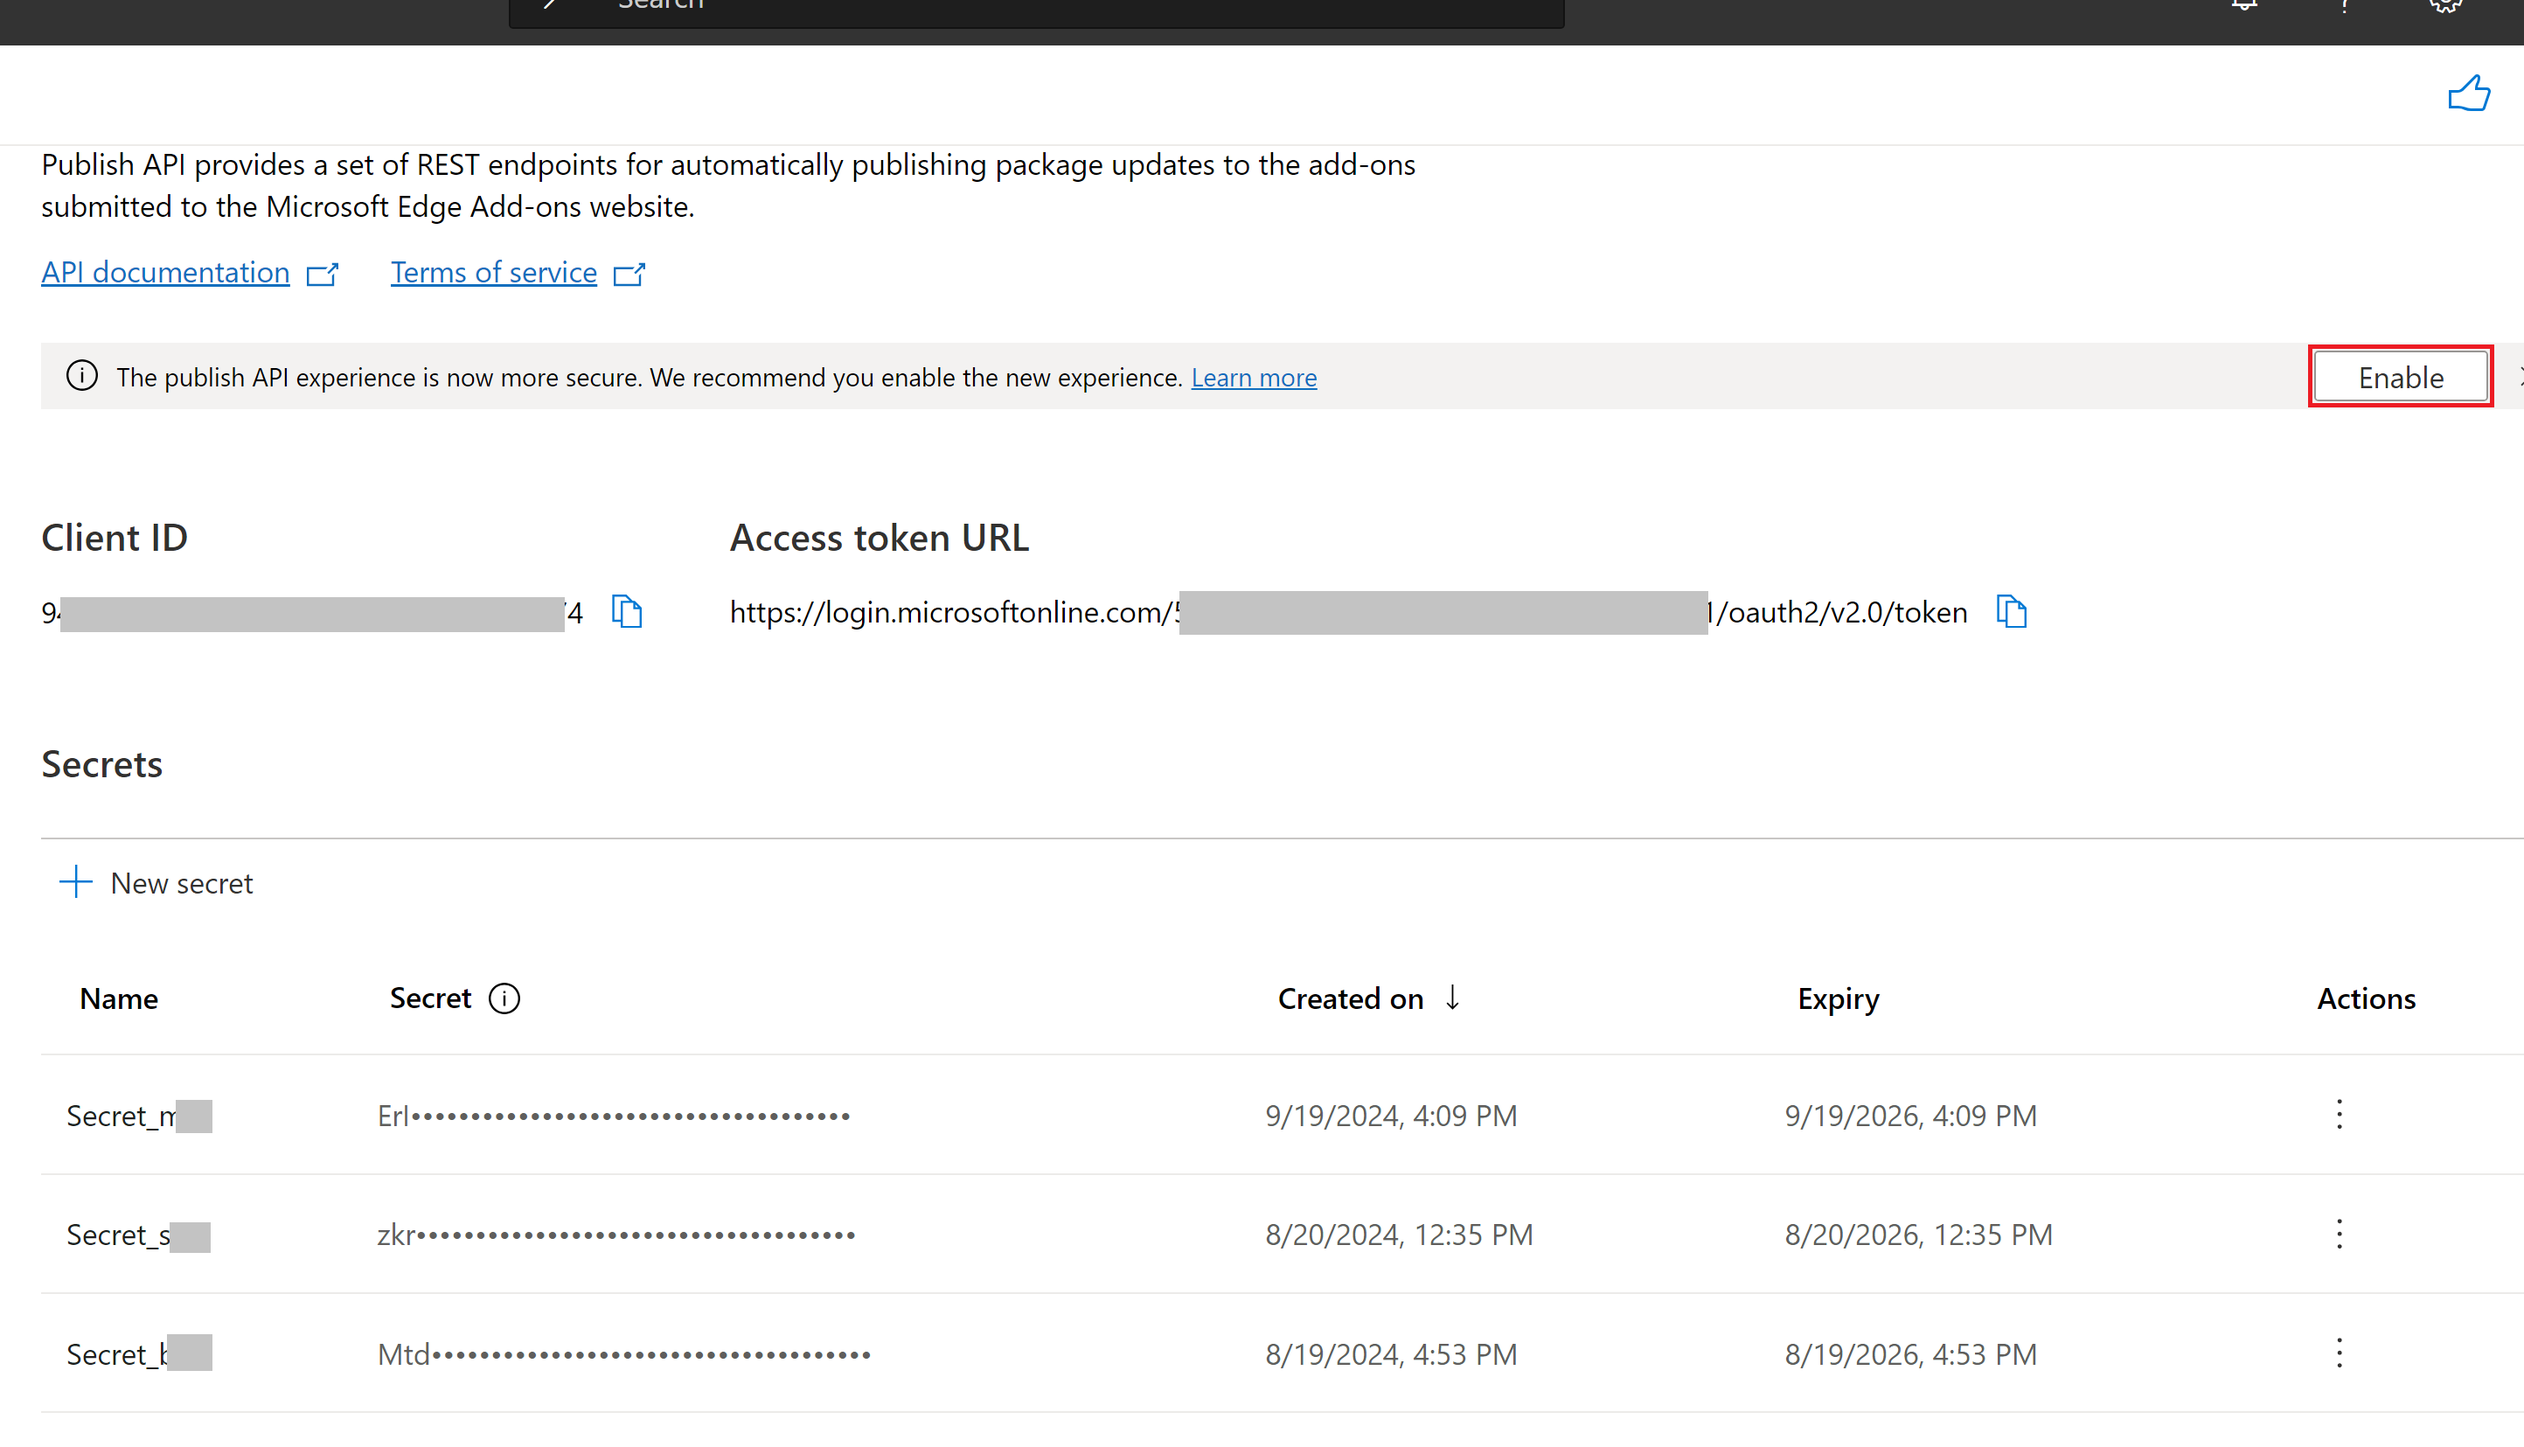
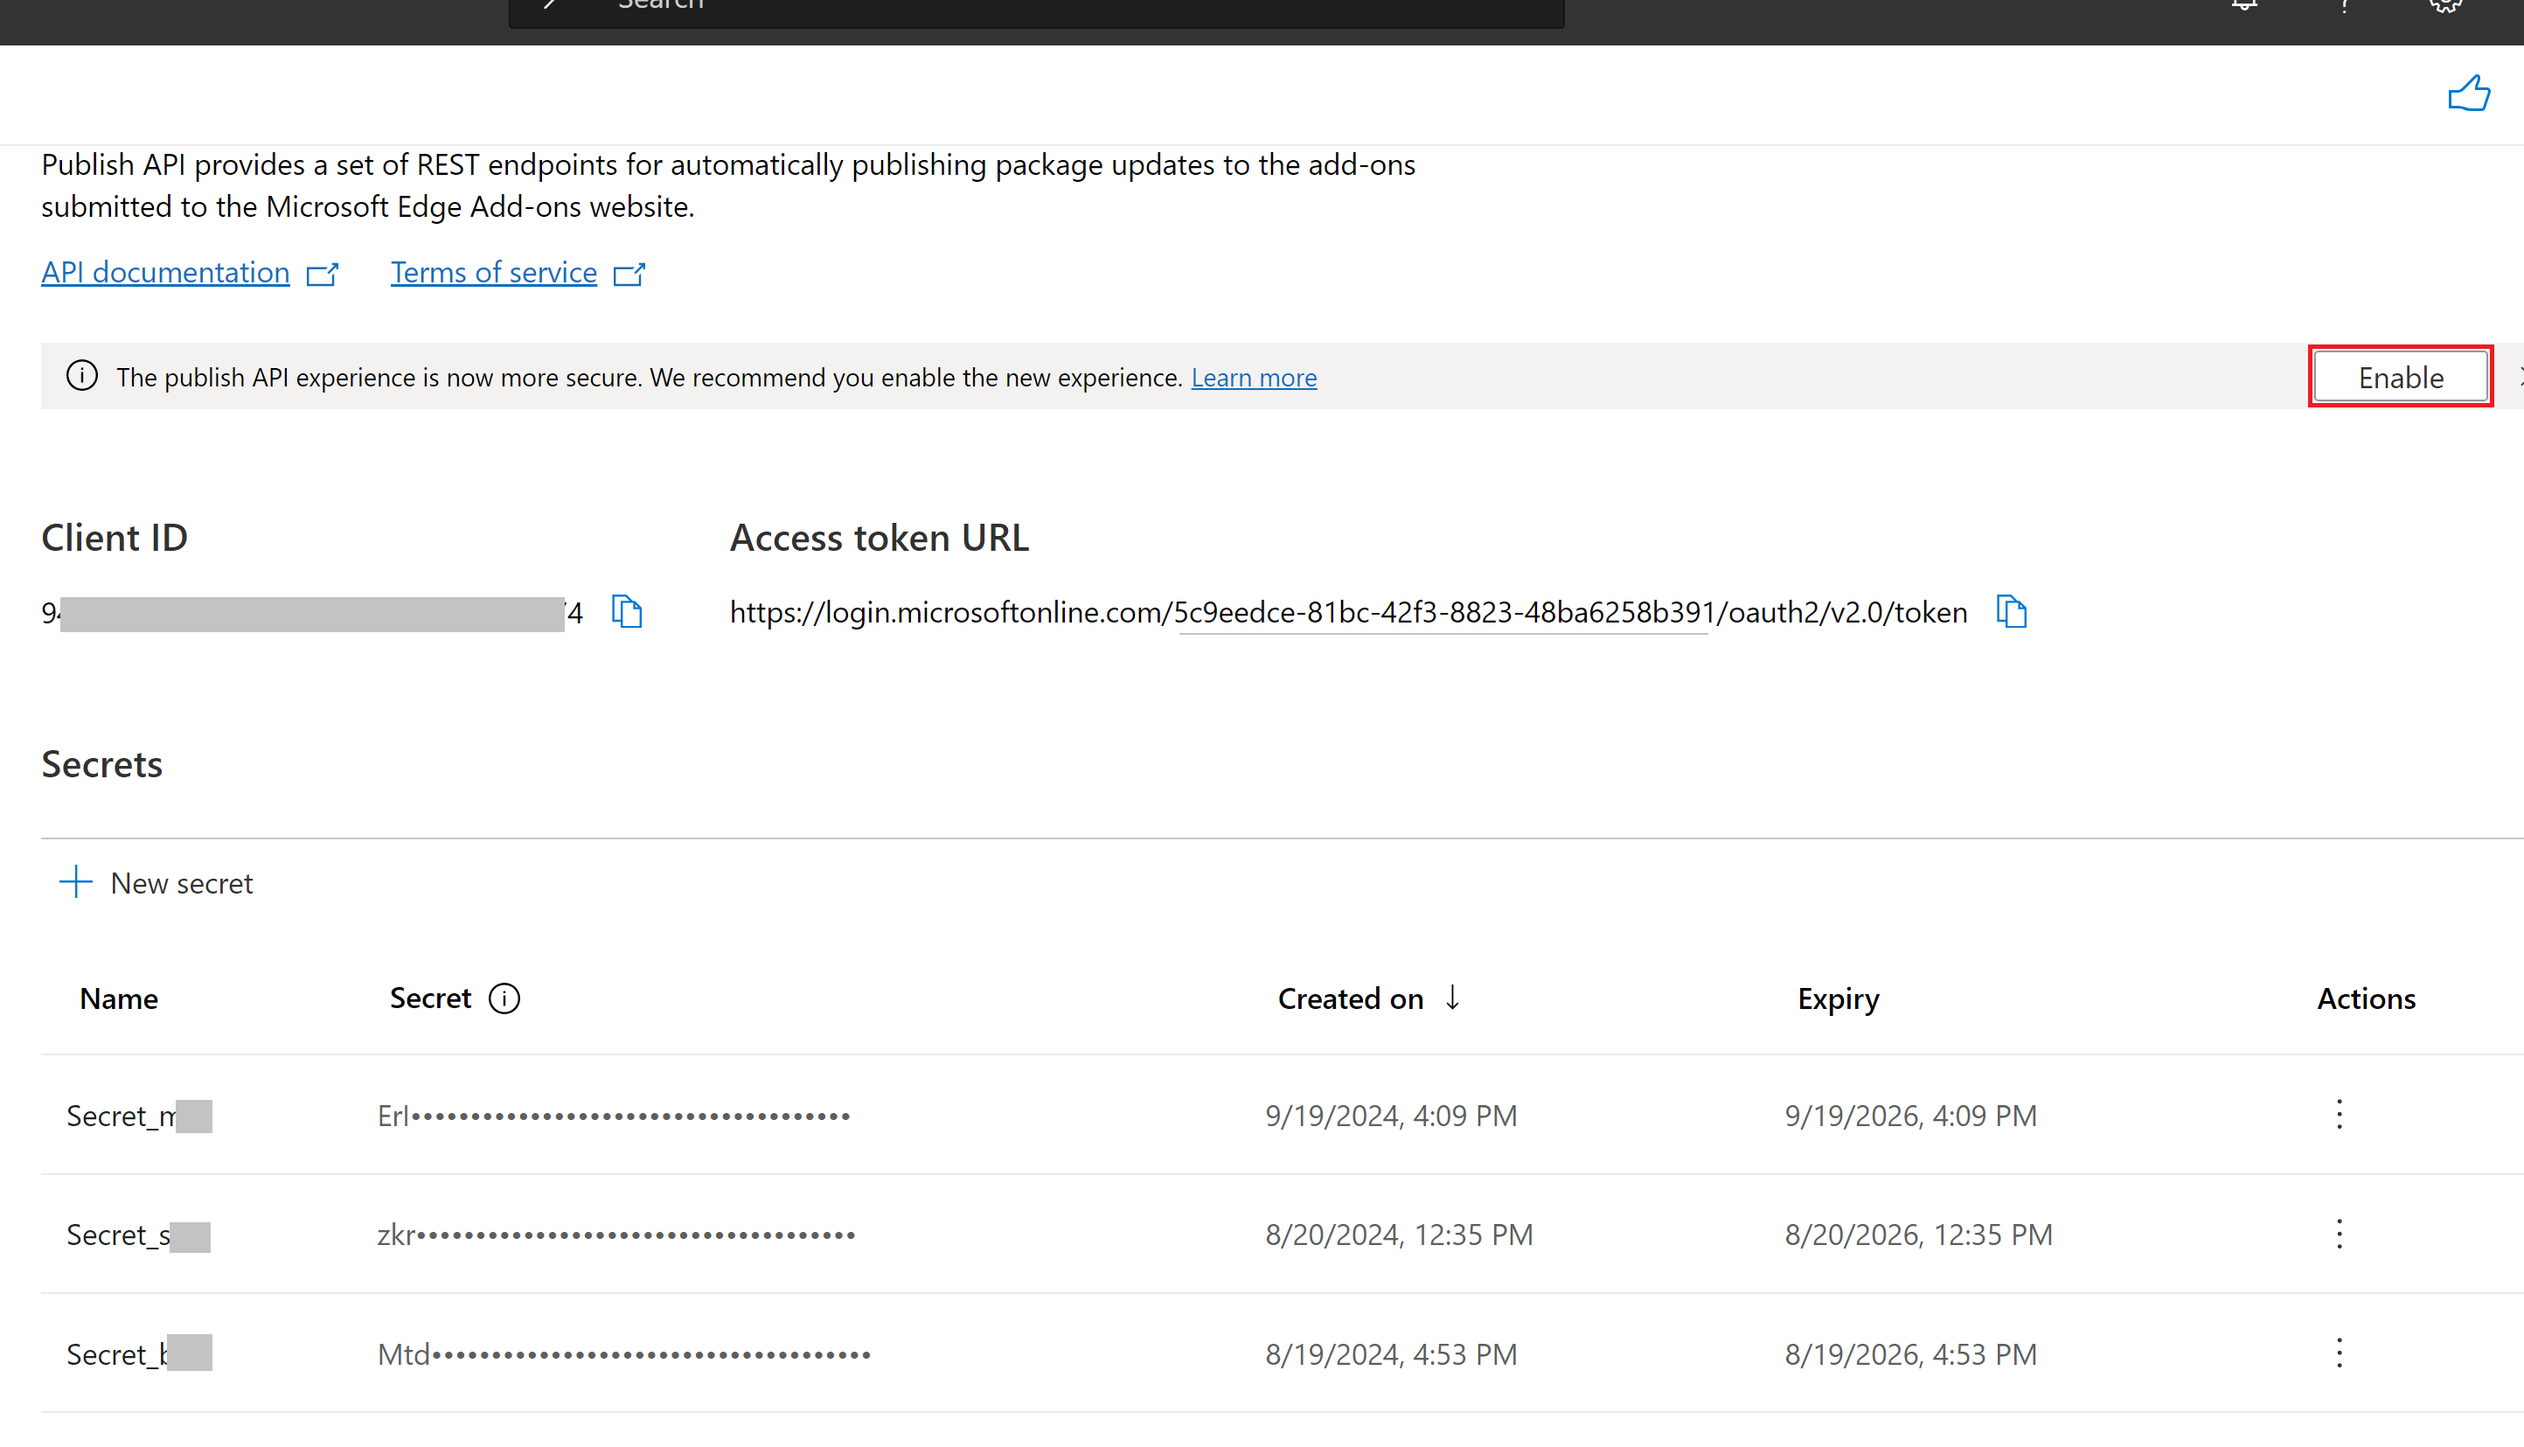
token vs url

Changed region(s): [[0.4676, 0.4006, 0.6858, 0.4622]]

diff --git a/microsoft-edge/extensions-chromium/publish/api/using-addons-api.md b/microsoft-edge/extensions-chromium/publish/api/using-addons-api.md
@@ -34,7 +34,7 @@ The REST endpoints use specific request headers for v1.1.
 
 ##### [v1](#tab/v1)
 
-v1 requires sending an Access Token URL.  The UI in Partner Center covers the access token.
+v1 requires sending an access token.<!-- todo: to an access token URL?  an access token that's provided by/at an access token URL? -->  The Partner Center UI shows the access token URL.<!-- todo: define/relate "access token URL" vs. "access token" -->
 
 v1 uses Secrets.  The UI in Partner Center covers Secrets.
 
@@ -52,7 +52,7 @@ To use v1.1 of the Update REST API:
 
 1. At your [Partner Center developer dashboard](https://partner.microsoft.com/dashboard/microsoftedge/public/login?ref=dd), opt-in to the API key management experience.Details are in [Enable the Update REST API at Partner Center](#enable-the-update-rest-api-at-partner-center), below.
 
-1. Write down the ClientID and API key.
+1. Write down the Client ID and the new API key.
 
 1. Update your authentication workflows, if needed.
 
@@ -66,13 +66,13 @@ To use v1 of the Update REST API:
 
 1. At your [Partner Center developer dashboard](https://partner.microsoft.com/dashboard/microsoftedge/public/login?ref=dd), get an access token.  Details are in [Enable the Update REST API at Partner Center](#enable-the-update-rest-api-at-partner-center), below.
 
-1. Generate your ClientID and secrets.
+1. Generate your ClientID and secrets.  You can generate multiple client secrets for your Client ID.  For example, you can create multiple secrets for multiple projects.
 
 1. Update your authentication workflows, if needed.
 
 1. Re-configure any existing Continuous Integration (CI) or Continuous Deployment (CD) pipelines that might be impacted by the changes to the access token URL.
 
-1. Retrieve the access token.  Details are in [Retrieving the access token (v1 only)](#retrieving-the-access-token-v1-only), below.
+1. Retrieve the access token.  Details are in [Retrieve the access token (v1 only)](#retrieve-the-access-token-v1-only), below.
 
 1. When you use a REST endpoint, specify the access token in the request header.  Details are in [Using the API endpoints](#using-the-api-endpoints), below.
 
@@ -118,20 +118,15 @@ To use the Microsoft Edge Add-ons API, you first need to enable the API for your
    ![The 'Publish API' page at Partner Center after clicking 'Create API credentials', now showing Client ID and API key](./using-addons-api-images/partner-center-1-1-ui.png)
 
    The API credentials have now been created; you've enabled or renewed the API.  The following items are now displayed on the **Publish API** page:
-   * **Client ID**.
-   * **API Key**.
-      * **Expiry** date for the API key.
+   * Your **Client ID**.
+   * **API Keys**.
+      * The **Expiry** date for each API key.
 
 1. Write down the following:
    * The **Client ID**.
-   * The **API key**.
+   * The new **API key**.
 
-   You'll use the Client ID and API key values in request headers when using a REST endpoint:
-
-   ``REST
-   `Authorization: ApiKey <api key>`
-   `X-ClientID: <client ID>`
-   ```
+   You'll use the Client ID and API key in the request header when using a REST endpoint.
 
 ##### [v1](#tab/v1)
 
@@ -142,40 +137,34 @@ To use the Microsoft Edge Add-ons API, you first need to enable the API for your
 1. On the **Publish API** page, click the **Create API credentials** button.  This step may take a few minutes to finish.
 
    The API credentials have now been created; you've enabled or renewed the API.  The following items are now displayed on the **Publish API** page:
-   * **Client ID**
-   * **Client secret**
-   * **Expiry date**
-   * **Access token URL**
+   * Your **Client ID**.
+   * Your **Access token URL**.
+   * **Client secrets**.
+      * The **Expiry date** of each Secret.
 
    ![The 'Publish API' page at Partner Center after clicking 'Create API credentials', now showing Client ID, Client Secret, and Auth Token URL](./using-addons-api-images/create-api-credentials-button.png)
 
 1. Write down the following:
    * The **Client ID**.
-   * The **Client secret**.
    * The **Access token URL**.
+   * The new **Client secret**.
 
-   You'll use these values in the next step, to get an access token.
+   You'll use the Client ID, access token URL, and client secret to get an access token, per [Retrieve the access token](#retrieve-the-access-token), below .  You'll then use the access token in the request header when using a REST endpoint.
 
 > [!IMPORTANT]
 > Be sure to write down the client secret now, because it's only visible immediately after enabling or renewing the API (that is, after creating API credentials).  This particular secret isn't shown again.
 
-You can generate multiple client secrets for your client ID.  For example, you can create multiple secrets for multiple projects.
-
----
+You can generate multiple client secrets for your Client ID.  For example, you can create multiple secrets for multiple projects.
 
 
-<!-- ====================================================================== -->
-## Retrieving the access token (v1 only)
+<!-- ---------------------------------- -->
+#### Retrieve the access token
+<!-- todo: global: access token, or access token URL?  consistency pass, relate the two terms -->
 
+After you've acquired the necessary authorization for your application, get access tokens<!-- todo: plural or singular?  one token per endpoint? --> for APIs.  To get a token by using the client credentials grant, send a POST request to the Access token URL (the OAuth token).
 
-##### [v1.1](#tab/v1-1)
+The tenant information<!-- todo: define "tenant information", what relevance? --> is available in the Access token URL that you received in the previous step, [Enable the Update REST API at Partner Center](#enable-the-update-rest-api-at-partner-center).
 
-Not applicable.
-
-
-##### [v1](#tab/v1)
-
-After you've acquired the necessary authorization for your application, get access tokens<!-- todo: plural or singular?  one token per endpoint? --> for APIs.  To get a token using the client credentials grant, send a POST request to the Access token URL (the OAuth token).  The tenant information is available in the URL that you received in the previous step, [Enable the Update REST API at Partner Center](#enable-the-update-rest-api-at-partner-center).
 
 ```REST
 Endpoint: https://login.microsoftonline.com/5c9eedce-81bc-42f3-8823-48ba6258b391/oauth2/v1.1.0/token
@@ -184,8 +173,8 @@ Header Parameters: Content-Type: application/x-www-form-urlencoded
 ```
 
 
-<!-- ---------------------------------- -->
-#### Sample request
+<!-- ---------- -->
+###### Sample request
 
 ```console
 > curl \
@@ -200,8 +189,8 @@ https://login.microsoftonline.com/5c9eedce-81bc-42f3-8823-48ba6258b391/oauth2/v1
 ```
 
 
-<!-- ---------------------------------- -->
-#### Sample response
+<!-- ---------- -->
+###### Sample response
 
 ```json
 {
